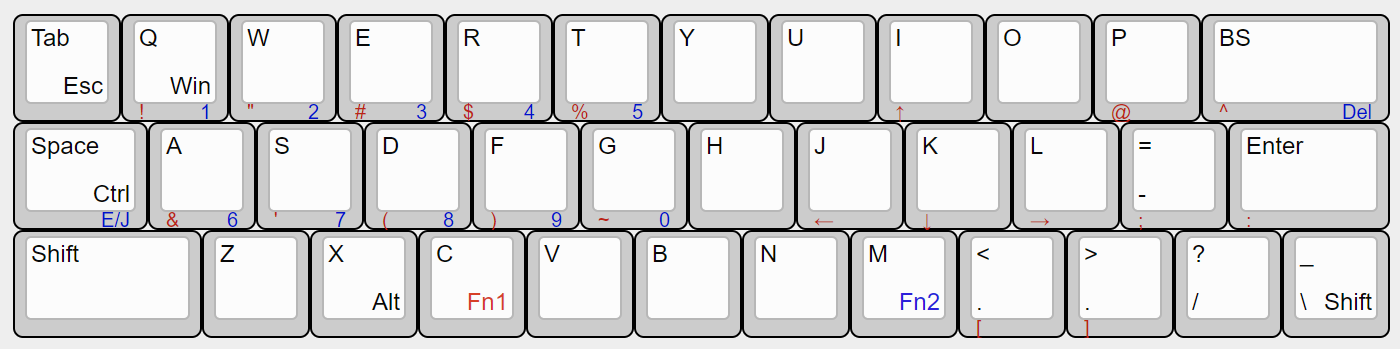
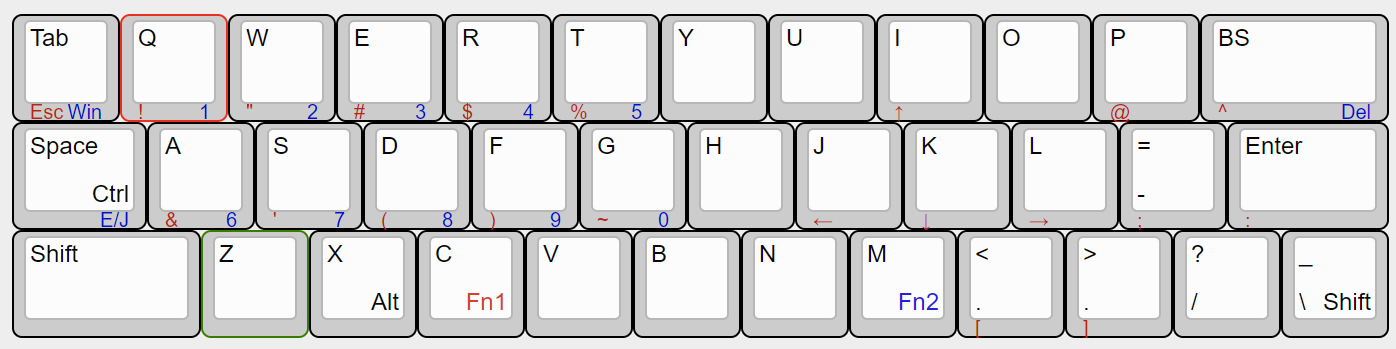
デフォルトキーマップ変更

diff --git a/firmware/QMK/keyboards/ymkn/neige/keymaps/vial/keymap.c b/firmware/QMK/keyboards/ymkn/neige/keymaps/vial/keymap.c
@@ -3,29 +3,29 @@
 
 const uint16_t PROGMEM keymaps[][MATRIX_ROWS][MATRIX_COLS] = {
 	[0] = LAYOUT(
-		TD(0), TD(1), KC_W, KC_E, KC_R, KC_T, KC_Y, KC_U, KC_I, KC_O, KC_P, KC_BSPC,
+		KC_TAB, KC_Q, KC_W, KC_E, KC_R, KC_T, KC_Y, KC_U, KC_I, KC_O, KC_P, KC_BSPC,
 		LCTL_T(KC_SPC), KC_A, KC_S, KC_D, KC_F, KC_G, KC_H, KC_J, KC_K, KC_L, KC_MINS, KC_ENT,
 		KC_LSFT, KC_Z, LALT_T(KC_X), LT(1, KC_C), KC_V, KC_B, KC_N, LT(2, KC_M), KC_COMM, KC_DOT, KC_SLSH, RSFT_T(KC_INT1)
 	),
 	[1] = LAYOUT(
-		KC_TRNS, LSFT(KC_1), LSFT(KC_2), LSFT(KC_3), LSFT(KC_4), LSFT(KC_5), KC_TRNS, KC_TRNS, KC_UP, KC_TRNS, KC_LBRC, KC_EQL,
-		KC_TRNS, LSFT(KC_6), LSFT(KC_7), LSFT(KC_8), LSFT(KC_9), LSFT(KC_EQL), KC_TRNS, KC_LEFT, KC_DOWN, KC_RGHT, KC_SCLN, KC_QUOT,
-		KC_TRNS, KC_TRNS, KC_TRNS, KC_TRNS, KC_TRNS, KC_TRNS, KC_TRNS, KC_TRNS, KC_RBRC, KC_NUHS, KC_TRNS, KC_INT3
+		KC_ESC, LSFT(KC_1), LSFT(KC_2), LSFT(KC_3), LSFT(KC_4), LSFT(KC_5), KC_TRNS, KC_TRNS, KC_UP, KC_TRNS, KC_LBRC, KC_EQL,
+		KC_GRV, LSFT(KC_6), LSFT(KC_7), LSFT(KC_8), LSFT(KC_9), LSFT(KC_EQL), KC_TRNS, KC_LEFT, KC_DOWN, KC_RGHT, KC_SCLN, KC_QUOT,
+		KC_TRNS, KC_TRNS, KC_TRNS, KC_TRNS, KC_TRNS, KC_TRNS, KC_TRNS, MO(4), KC_RBRC, KC_NUHS, KC_TRNS, KC_INT3
 	),
 	[2] = LAYOUT(
-		KC_GRV, KC_1, KC_2, KC_3, KC_4, KC_5, KC_TRNS, KC_TRNS, KC_TRNS, KC_TRNS, KC_TRNS, KC_DEL,
+		KC_LGUI, KC_1, KC_2, KC_3, KC_4, KC_5, KC_TRNS, KC_TRNS, KC_TRNS, KC_TRNS, KC_TRNS, KC_DEL,
 		KC_GRV, KC_6, KC_7, KC_8, KC_9, KC_0, KC_TRNS, KC_TRNS, KC_TRNS, KC_TRNS, KC_TRNS, KC_TRNS,
-		KC_TRNS, KC_TRNS, KC_TRNS, KC_TRNS, KC_TRNS, KC_TRNS, KC_TRNS, KC_TRNS, KC_TRNS, KC_TRNS, KC_TRNS, KC_TRNS
+		KC_TRNS, KC_TRNS, KC_TRNS, KC_TRNS, KC_TRNS, KC_TRNS, KC_TRNS, KC_TRNS, KC_TRNS, KC_TRNS, KC_TRNS, TG(3)
 	),
 	[3] = LAYOUT(
-		KC_TRNS, KC_TRNS, KC_TRNS, KC_TRNS, KC_TRNS, KC_TRNS, KC_TRNS, KC_TRNS, KC_TRNS, KC_TRNS, KC_TRNS, KC_TRNS,
-		KC_TRNS, KC_TRNS, KC_TRNS, KC_TRNS, KC_TRNS, KC_TRNS, KC_TRNS, KC_TRNS, KC_TRNS, KC_TRNS, KC_TRNS, KC_TRNS,
-		KC_TRNS, KC_TRNS, KC_TRNS, KC_TRNS, KC_TRNS, KC_TRNS, KC_TRNS, KC_TRNS, KC_TRNS, KC_TRNS, KC_TRNS, KC_TRNS
+		KC_ESC, KC_TRNS, KC_TRNS, KC_TRNS, KC_TRNS, KC_TRNS, KC_TRNS, KC_TRNS, KC_UP, KC_TRNS, KC_TRNS, KC_TRNS,
+		KC_SPC, KC_TRNS, KC_TRNS, KC_TRNS, KC_TRNS, KC_TRNS, KC_TRNS, KC_LEFT, KC_DOWN, KC_RGHT, KC_TRNS, KC_TRNS,
+		KC_TRNS, KC_TRNS, KC_TRNS, KC_TRNS, KC_TRNS, KC_TRNS, KC_TRNS, TG(3), KC_TRNS, KC_TRNS, KC_TRNS, KC_RCTL
 	),
 	[4] = LAYOUT(
-		KC_TRNS, KC_TRNS, KC_TRNS, KC_TRNS, KC_TRNS, KC_TRNS, KC_TRNS, KC_TRNS, KC_TRNS, KC_TRNS, KC_TRNS, KC_TRNS,
-		KC_TRNS, KC_TRNS, KC_TRNS, KC_TRNS, KC_TRNS, KC_TRNS, KC_TRNS, KC_TRNS, KC_TRNS, KC_TRNS, KC_TRNS, KC_TRNS,
-		KC_TRNS, KC_TRNS, KC_TRNS, KC_TRNS, KC_TRNS, KC_TRNS, KC_TRNS, KC_TRNS, KC_TRNS, KC_TRNS, KC_TRNS, KC_TRNS
+		KC_TRNS, KC_F1, KC_F2, KC_F3, KC_F4, KC_F5, KC_TRNS, KC_TRNS, KC_TRNS, KC_TRNS, KC_TRNS, KC_TRNS,
+		KC_TRNS, KC_F6, KC_F7, KC_F8, KC_F9, KC_F10, KC_TRNS, KC_TRNS, KC_TRNS, KC_TRNS, KC_TRNS, KC_TRNS,
+		KC_TRNS, KC_F11, KC_F12, KC_TRNS, KC_TRNS, KC_TRNS, KC_TRNS, KC_TRNS, KC_TRNS, KC_TRNS, KC_TRNS, KC_TRNS
 	),
 	[5] = LAYOUT(
 		KC_TRNS, KC_TRNS, KC_TRNS, KC_TRNS, KC_TRNS, KC_TRNS, KC_TRNS, KC_TRNS, KC_TRNS, KC_TRNS, KC_TRNS, KC_TRNS,
@@ -33,3 +33,4 @@ const uint16_t PROGMEM keymaps[][MATRIX_ROWS][MATRIX_COLS] = {
 		KC_TRNS, KC_TRNS, KC_TRNS, KC_TRNS, KC_TRNS, KC_TRNS, KC_TRNS, KC_TRNS, KC_TRNS, KC_TRNS, KC_TRNS, KC_TRNS
 	)
 };
+

diff --git a/firmware/QMK/keyboards/ymkn/neige/readme.md b/firmware/QMK/keyboards/ymkn/neige/readme.md
@@ -1,6 +1,6 @@
-# Neige
+# neige
 
-Neige - A compact 30% keyboard with 3-rows and 12-columns row staggered layout in 12.75u width.
+neige - A compact 30% keyboard with 3-rows and 12-columns row staggered layout in 12.75u width.
 
 * Keyboard Maintainer: [ymkn](https://github.com/ymkn)
 
